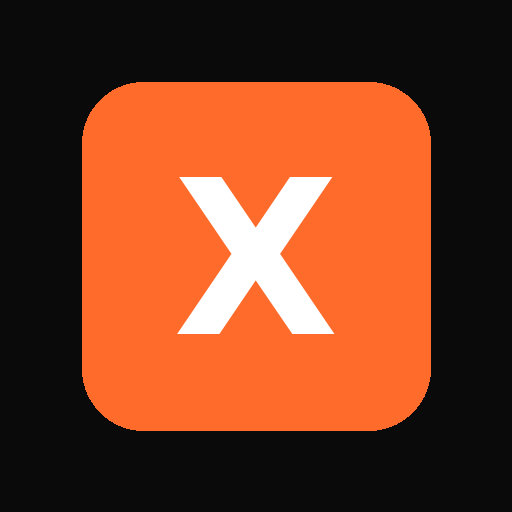
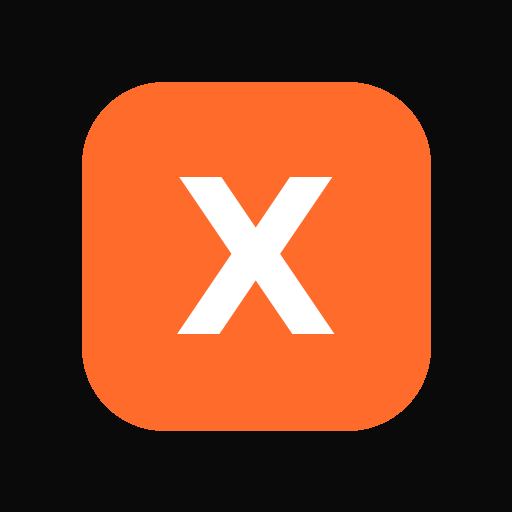
Add files via upload

diff --git a/app.js b/app.js
@@ -637,13 +637,21 @@ let expandedEx = {};
 let lastAutoExpandedDay = null; // sleduje pre ktorý deň už prebehlo auto-rozbalenie
 
 function navigate(route) {
+  // Pri zmene obrazovky chceme scroll hore – vynuluj predošlý scroller pred renderom
+  const prevScroller = document.getElementById('root')?.querySelector('.scroll');
+  if (prevScroller) prevScroller.scrollTop = 0;
   currentRoute = route;
   render();
-  document.getElementById('root').scrollTop = 0;
+  const newScroller = document.getElementById('root')?.querySelector('.scroll');
+  if (newScroller) newScroller.scrollTop = 0;
 }
 
 function render() {
   const root = document.getElementById('root');
+  // Zapamätaj si scroll pozíciu aktuálnej skrolovacej plochy (aby obraz neskákal hore)
+  const prevScroller = root.querySelector('.scroll');
+  const prevScrollTop = prevScroller ? prevScroller.scrollTop : 0;
+
   root.innerHTML = '';
   applyTheme(PROFILE.theme || 'auto');
 
@@ -668,6 +676,12 @@ function render() {
   };
   const fn = routes[currentRoute] || renderMainApp;
   root.appendChild(fn());
+
+  // Obnov scroll pozíciu (ak existuje skrolovacia plocha a mali sme kam scrollnuté)
+  if (prevScrollTop > 0) {
+    const newScroller = root.querySelector('.scroll');
+    if (newScroller) newScroller.scrollTop = prevScrollTop;
+  }
 
   // Ak beží časovač prestávky, znovu ho zobraz (re-render zmazal #root, nie body)
   if (restTimerInterval && restTimerRemaining>0 && !document.getElementById('rest-timer')) {
@@ -1318,11 +1332,12 @@ function renderExerciseCard(day, ex, idx) {
       wStepper.appendChild(h('div',{class:'stepper-label'}, `Váha (${weightUnit()})`));
       const wRow = h('div',{class:'stepper-row'});
       const wStep = progStepForMuscle(ex.muscle);
-      wRow.appendChild(h('button',{class:'stepper-btn', onClick:()=>adjustSetField(day.id,ex.id,si,'weight',-wStep,wVal,rVal)},'−'));
+      wRow.appendChild(h('button',{class:'stepper-btn', onClick:()=>adjustSetField(day.id,ex.id,si,'weight',-wStep)},'−'));
       const wInput = h('input',{class:'stepper-val',type:'number',inputmode:'decimal',value:wVal,placeholder:'0',
+        id:`w-${ex.id}-${si}`,
         onChange:(e)=>{ setSetVal(day.id,ex.id,si,'weight', inputToKg(e.target.value)); }});
       wRow.appendChild(wInput);
-      wRow.appendChild(h('button',{class:'stepper-btn', onClick:()=>adjustSetField(day.id,ex.id,si,'weight',wStep,wVal,rVal)},'+'));
+      wRow.appendChild(h('button',{class:'stepper-btn', onClick:()=>adjustSetField(day.id,ex.id,si,'weight',wStep)},'+'));
       wStepper.appendChild(wRow);
       fields.appendChild(wStepper);
 
@@ -1330,17 +1345,21 @@ function renderExerciseCard(day, ex, idx) {
       const rStepper = h('div',{class:'stepper'});
       rStepper.appendChild(h('div',{class:'stepper-label'}, 'Opakovania'));
       const rRow = h('div',{class:'stepper-row'});
-      rRow.appendChild(h('button',{class:'stepper-btn', onClick:()=>adjustSetField(day.id,ex.id,si,'reps',-1,wVal,rVal)},'−'));
+      rRow.appendChild(h('button',{class:'stepper-btn', onClick:()=>adjustSetField(day.id,ex.id,si,'reps',-1)},'−'));
       const rInput = h('input',{class:'stepper-val',type:'number',inputmode:'numeric',value:rVal,placeholder:'0',
+        id:`r-${ex.id}-${si}`,
         onChange:(e)=>{ setSetVal(day.id,ex.id,si,'reps', e.target.value); }});
       rRow.appendChild(rInput);
-      rRow.appendChild(h('button',{class:'stepper-btn', onClick:()=>adjustSetField(day.id,ex.id,si,'reps',1,wVal,rVal)},'+'));
+      rRow.appendChild(h('button',{class:'stepper-btn', onClick:()=>adjustSetField(day.id,ex.id,si,'reps',1)},'+'));
       rStepper.appendChild(rRow);
       fields.appendChild(rStepper);
 
       // Veľký check button
       const checkBtn = h('button',{class:'set-check-lg'+(isDone?' done':''), onClick:()=>{
-        completeSet(day.id, ex.id, si, wVal, rVal);
+        // Načítaj aktuálne hodnoty z inputov (môžu byť upravené stepperom bez re-renderu)
+        const curW = document.getElementById(`w-${ex.id}-${si}`)?.value || wVal;
+        const curR = document.getElementById(`r-${ex.id}-${si}`)?.value || rVal;
+        completeSet(day.id, ex.id, si, curW, curR);
       }},'✓');
       fields.appendChild(checkBtn);
 
@@ -1375,23 +1394,22 @@ function renderExerciseCard(day, ex, idx) {
 }
 
 // Stepper +/- úprava – ak ešte nie je hodnota uložená, použije zobrazenú (predvyplnenú)
-function adjustSetField(dayId, exId, setIdx, field, delta, currentW, currentR) {
-  const sess = (SESSION[dayId]||{})[exId] || {};
-  const s = (sess.sets||[])[setIdx] || {};
-  let current;
-  if (field==='weight') {
-    current = s.weight!=null && s.weight!=='' ? parseFloat(displayWeight(parseFloat(s.weight))) : (parseFloat(currentW)||0);
-  } else {
-    current = s.reps!=null && s.reps!=='' ? parseInt(s.reps,10) : (parseInt(currentR,10)||0);
-  }
+function adjustSetField(dayId, exId, setIdx, field, delta) {
+  const inputId = (field==='weight'?'w-':'r-') + exId + '-' + setIdx;
+  const input = document.getElementById(inputId);
+  const current = parseFloat(input?.value) || 0;
   let next = current + delta;
   if (next < 0) next = 0;
+  // Zaokrúhli váhu na 1 desatinné miesto (kvôli 2.5 krokom)
+  if (field==='weight') next = Math.round(next*10)/10;
+  // Aktualizuj input priamo (bez re-renderu => obraz neskáče)
+  if (input) input.value = next;
+  // Ulož do session (váhu konvertuj späť na kg)
   if (field==='weight') {
     setSetVal(dayId, exId, setIdx, 'weight', inputToKg(next));
   } else {
     setSetVal(dayId, exId, setIdx, 'reps', String(next));
   }
-  render();
 }
 
 // Dokončenie série – uloží hodnoty (ak nie sú), zazelení, spustí timer, auto-skok

diff --git a/index.html b/index.html
@@ -8,7 +8,7 @@
 <meta name="apple-mobile-web-app-status-bar-style" content="black-translucent"/>
 <meta name="apple-mobile-web-app-title" content="ForgeX"/>
 <link rel="manifest" href="manifest.json"/>
-<link rel="apple-touch-icon" href="icons/icon-192.png"/>
[1 lines of base64/hex data omitted]
 <title>ForgeX</title>
 <script src="https://cdn.jsdelivr.net/npm/chart.js@4.4.0/dist/chart.umd.min.js"></script>
 <style>
@@ -204,7 +204,7 @@ textarea.note-input{width:100%;background:var(--surf2);border:1px solid var(--bo
 .rir-inline select{flex:1;background:var(--surf);border:1px solid var(--border2);border-radius:8px;color:var(--txtDim);font-size:13px;padding:6px 8px;outline:none}
 
 /* ===== REST TIMER ===== */
-#rest-timer{position:fixed;left:0;right:0;bottom:calc(var(--safeB) + 64px);z-index:250;display:flex;justify-content:center;padding:0 16px;pointer-events:none}
+#rest-timer{position:fixed;left:0;right:0;top:calc(var(--safeT) + 8px);z-index:250;display:flex;justify-content:center;padding:0 16px;pointer-events:none}
 .rest-timer-inner{background:var(--pri);color:#fff;border-radius:16px;padding:12px 18px;display:flex;align-items:center;gap:14px;box-shadow:0 8px 24px #0006;pointer-events:auto;max-width:420px;width:100%}
 .rest-time{font-size:24px;font-weight:800;font-variant-numeric:tabular-nums;min-width:64px}
 .rest-label{font-size:11px;opacity:.85}

diff --git a/sw.js b/sw.js
@@ -1,4 +1,4 @@
-const CACHE = 'forgex-v3';
+const CACHE = 'forgex-v5';
 const ASSETS = ['./index.html'];
 self.addEventListener('install', e => { self.skipWaiting(); e.waitUntil(caches.open(CACHE).then(c => c.addAll(ASSETS))); });
 self.addEventListener('activate', e => { e.waitUntil(caches.keys().then(keys => Promise.all(keys.filter(k=>k!==CACHE).map(k=>caches.delete(k))))); });